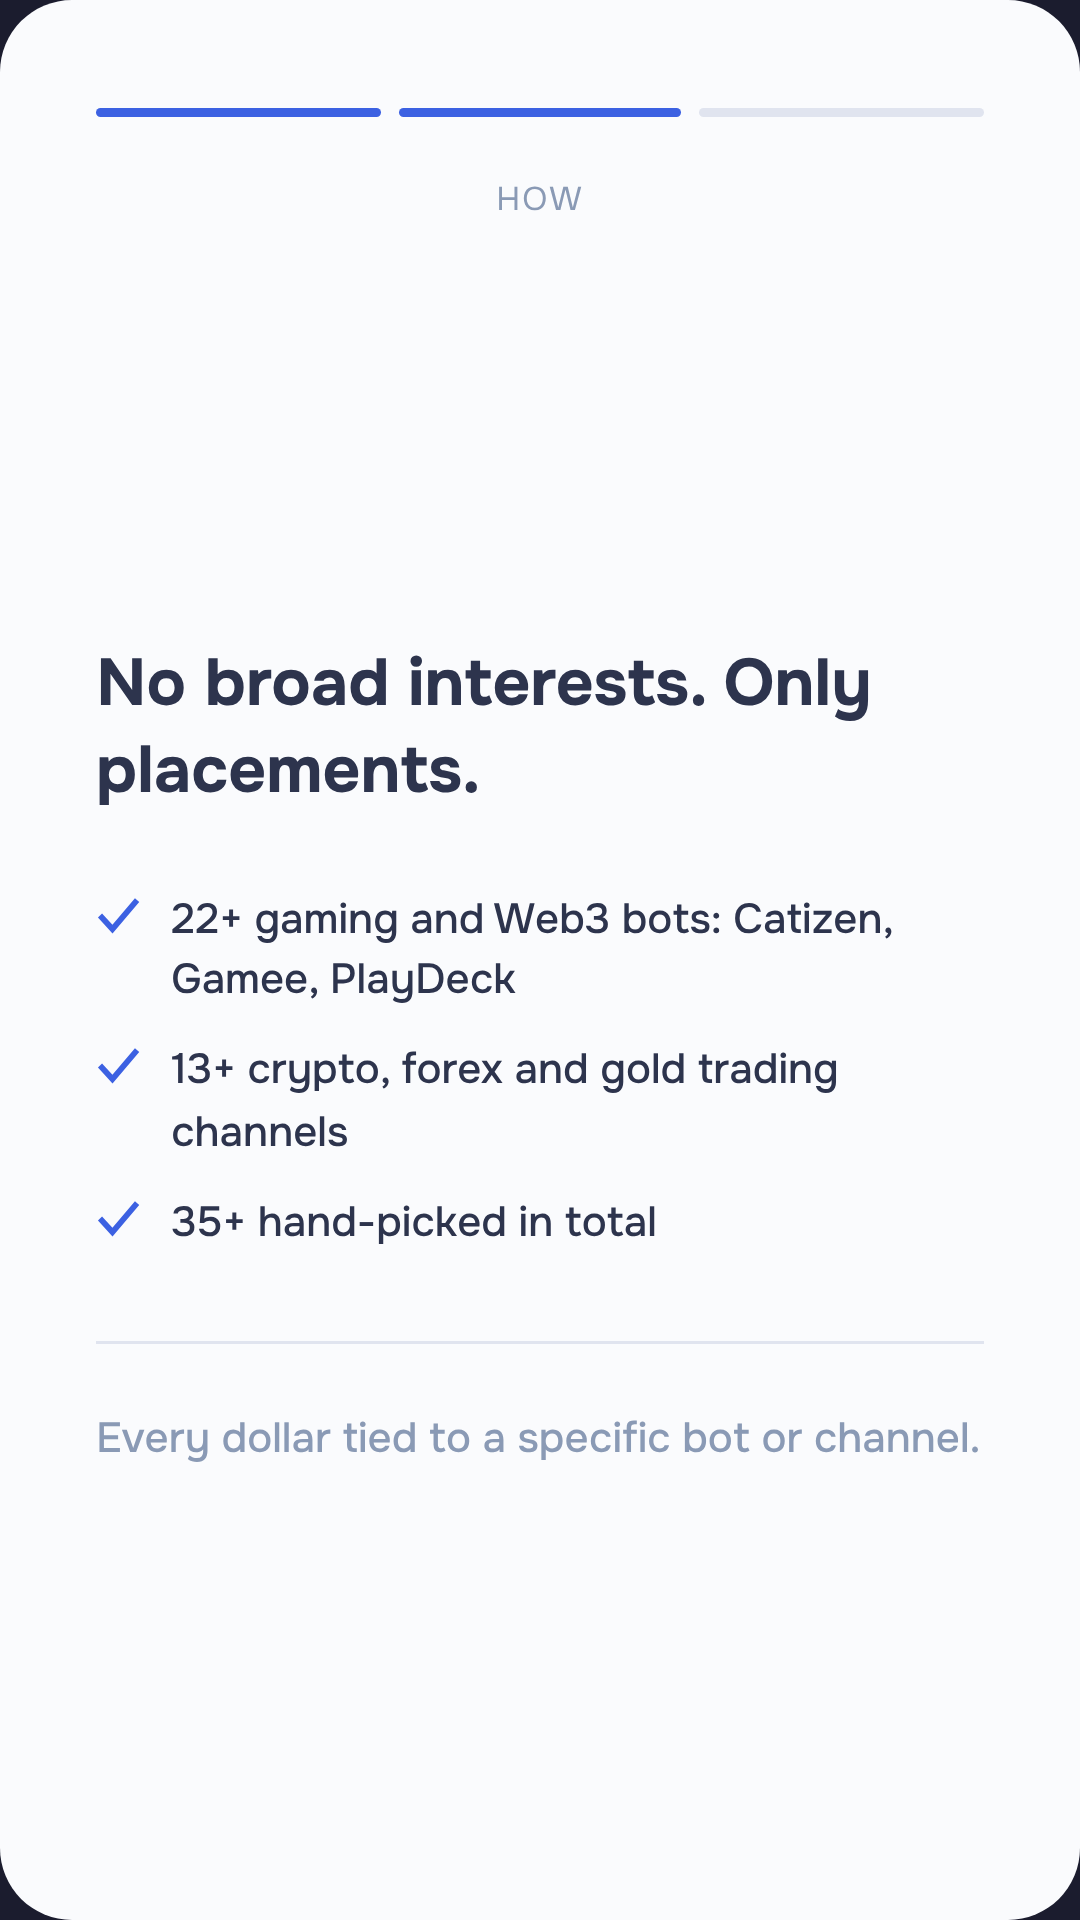
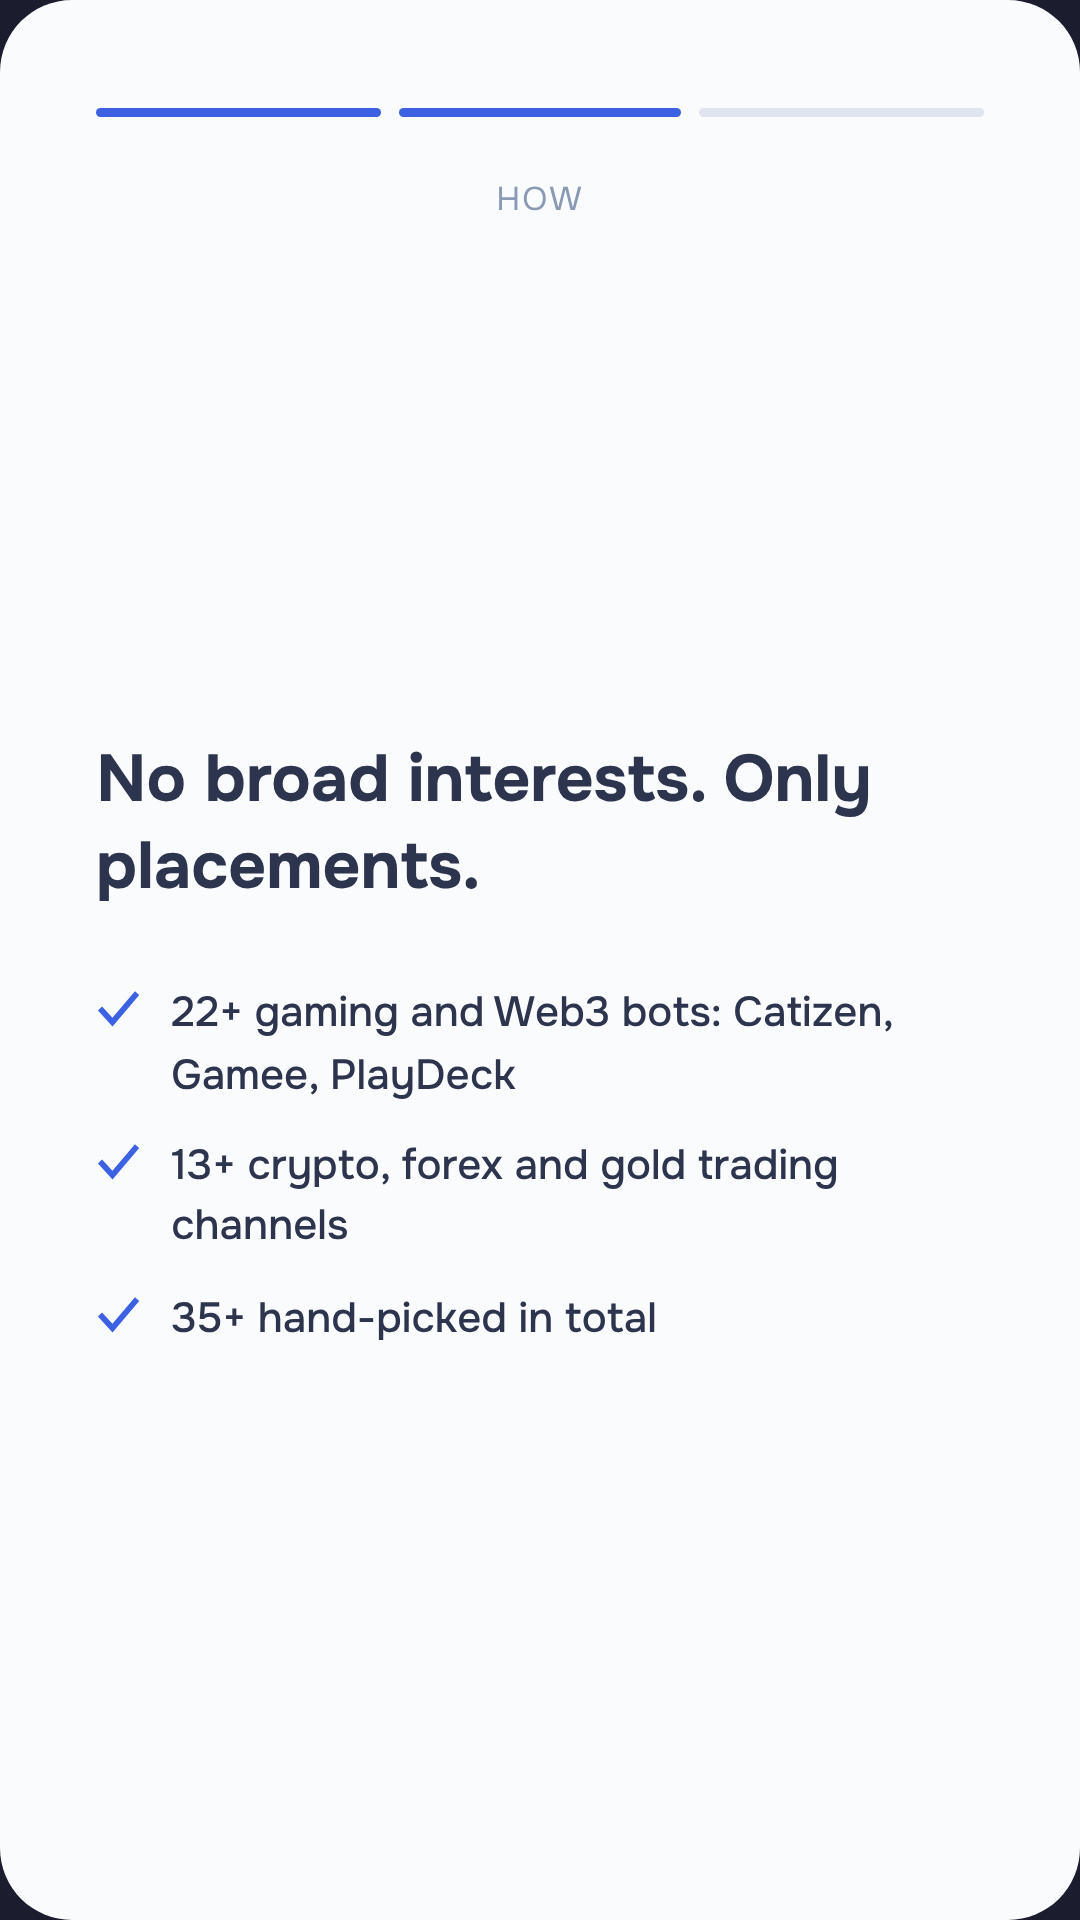
Format 02: drop footer captions, redesign slide 3 as blue CTA slide
Claude-Session: https://claude.ai/code/session_019mQXRn9tmYz6Dk7Bw87Nyy

diff --git a/stories/uds-wheel-of-fortune-stories-2.html b/stories/uds-wheel-of-fortune-stories-2.html
@@ -99,19 +99,17 @@ body {
     <div style="display:flex;align-items:flex-start;gap:10px;margin-bottom:10px;"><span class="checkmark">✓</span><span style="font-size:14px;font-weight:500;color:#2D344D;line-height:1.45;">22+ gaming and Web3 bots: Catizen, Gamee, PlayDeck</span></div>
     <div style="display:flex;align-items:flex-start;gap:10px;margin-bottom:10px;"><span class="checkmark">✓</span><span style="font-size:14px;font-weight:500;color:#2D344D;line-height:1.45;">13+ crypto, forex and gold trading channels</span></div>
     <div style="display:flex;align-items:flex-start;gap:10px;margin-bottom:10px;"><span class="checkmark">✓</span><span style="font-size:14px;font-weight:500;color:#2D344D;line-height:1.45;">35+ hand-picked in total</span></div>
-    <div class="divider"></div>
-    <div style="font-size:14px;font-weight:500;color:#8A9AB5;line-height:1.6;">Every dollar tied to a specific bot or channel.</div>
   </div>
-</div><div class="slide">
-  <div class="prog"><div class="ps on"></div><div class="ps on"></div><div class="ps on"></div></div>
-  <div class="section-label">Your turn</div>
-  <div style="flex:1;display:flex;flex-direction:column;justify-content:center;">
-    <div style="font-size:30px;font-weight:800;color:#2D344D;line-height:1.2;margin-bottom:24px;">Next <span style="color:#3C61E2;">Mini App</span> campaign?</div>
-    <div style="font-size:14px;font-weight:500;color:#2D344D;line-height:1.6;">Add placements, keep what performs, cut what does not.</div>
-    <div class="divider"></div>
-    <div style="font-size:13px;color:#8A9AB5;line-height:1.6;margin-bottom:16px;">Want users who actually tap Launch?</div>
+</div><div class="slide" style="background:#3C61E2;position:relative;">
+  <div style="position:absolute;right:-90px;top:150px;width:300px;height:300px;border-radius:50%;background:rgba(250,251,253,.10);"></div>
+  <div style="position:absolute;right:30px;top:330px;width:120px;height:120px;border-radius:50%;background:rgba(250,251,253,.14);"></div>
+  <div class="prog" style="position:relative;"><div class="ps" style="background:#FAFBFD;"></div><div class="ps" style="background:#FAFBFD;"></div><div class="ps" style="background:#FAFBFD;"></div></div>
+  <div class="section-label" style="color:rgba(250,251,253,.7);position:relative;">Your turn</div>
+  <div style="flex:1;display:flex;flex-direction:column;justify-content:flex-end;padding-bottom:28px;position:relative;">
+    <div style="font-size:40px;font-weight:800;color:#FAFBFD;line-height:1.15;letter-spacing:-1px;margin-bottom:16px;">Want users who actually tap Launch?</div>
+    <div style="font-size:15px;font-weight:500;color:rgba(250,251,253,.8);line-height:1.5;">Add placements, keep what performs, cut what does not.</div>
   </div>
-  <button class="cta-btn">Write us → let's talk</button>
+  <button class="cta-btn" style="background:#FAFBFD;color:#3C61E2;position:relative;">Write us → let's talk</button>
 </div><div class="slide">
   <div class="prog"><div class="ps on"></div><div class="ps"></div><div class="ps"></div></div>
   <div class="section-label">Case</div>
